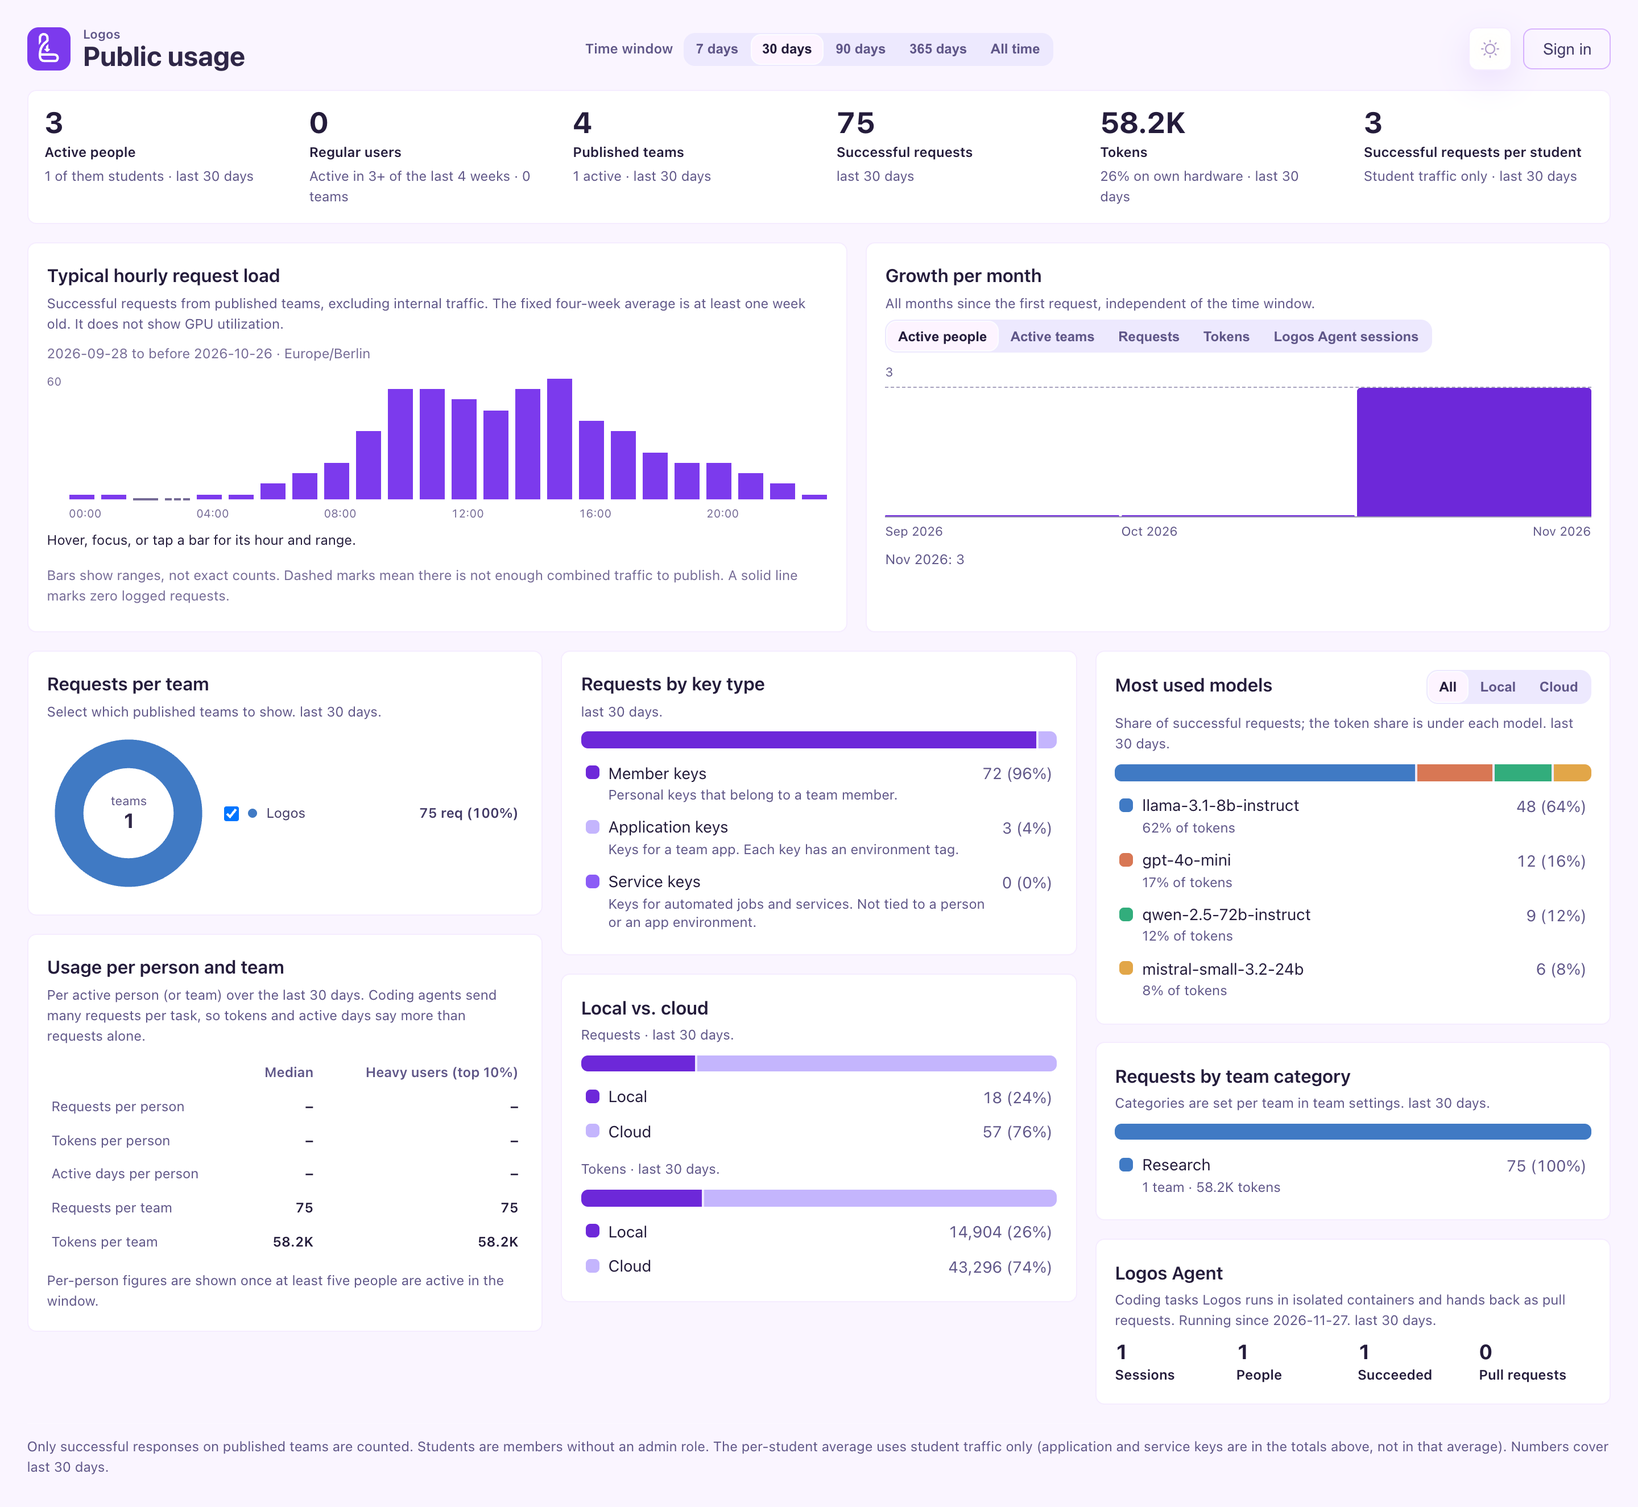
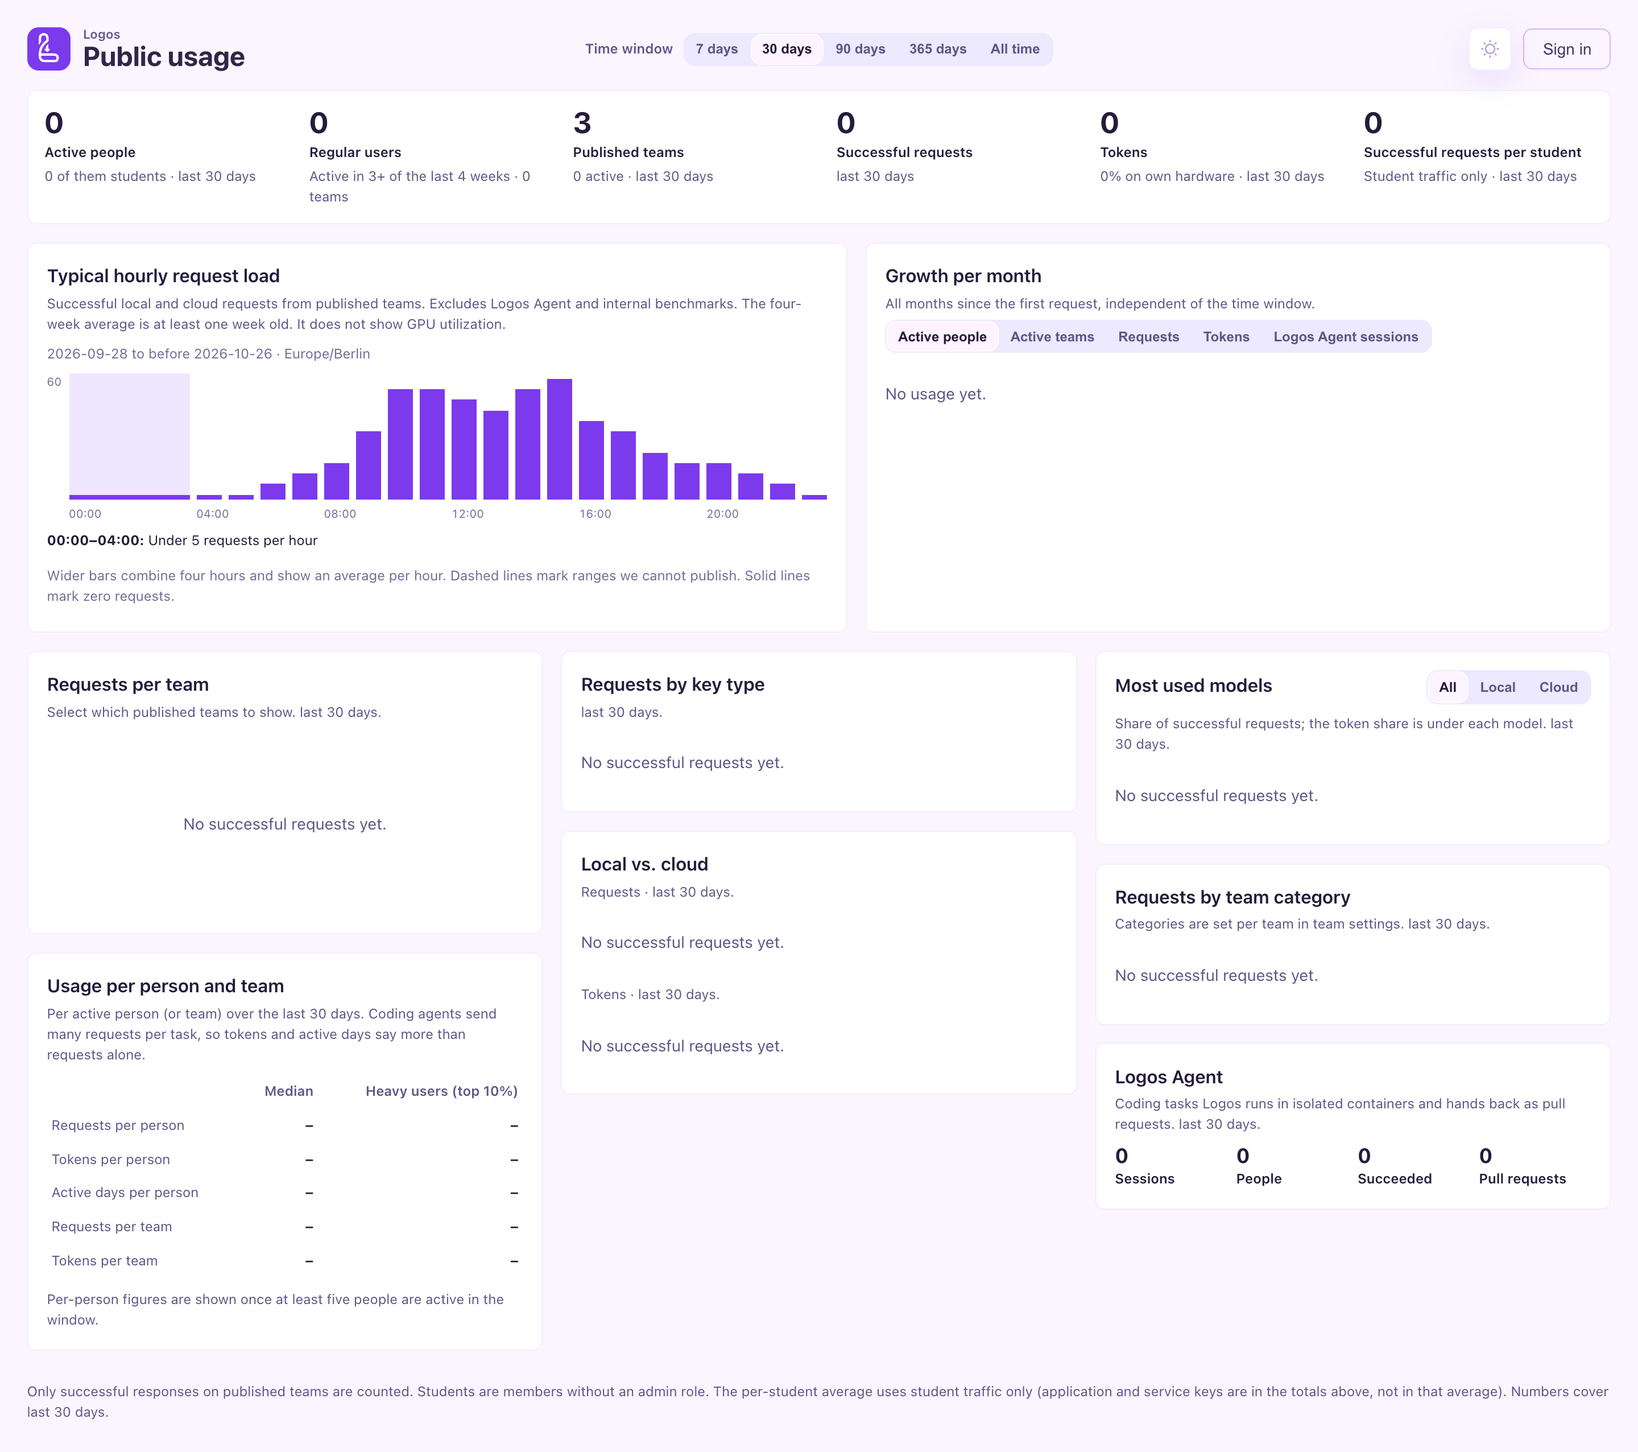
Publish safe grouped ranges for sparse public hourly load

diff --git a/logos-ui/src/app/features/public-stats/public-stats.hourly.html b/logos-ui/src/app/features/public-stats/public-stats.hourly.html
@@ -6,12 +6,12 @@
     <span class="hourly-public-axis" aria-hidden="true">{{ maximum() }}</span>
     <div class="hourly-public-slots">
       @for (slot of slots(); track slot.hour) {
-        <div class="hourly-public-column">
+        <div class="hourly-public-column" [style.grid-column]="(slot.hour + 1) + ' / span ' + (slot.span ?? 1)">
           <button type="button" class="hourly-public-hour"
             [class.suppressed]="slot.band_start === null && !slot.zero"
             [class.quiet]="slot.zero"
             [attr.aria-pressed]="selected() === slot.hour"
-            [attr.aria-label]="hourLabel(slot.hour) + ' to ' + hourLabel(slot.hour + 1) + ': ' + slotLabel(slot)"
+            [attr.aria-label]="hourLabel(slot.hour) + ' to ' + hourLabel(slot.hour + (slot.span ?? 1)) + ': ' + slotLabel(slot)"
             [title]="slotLabel(slot)"
             (click)="selected.set(slot.hour)"
             (focus)="preview.set(slot.hour)"
@@ -28,13 +28,13 @@
   <div class="hourly-public-detail">
     <output aria-live="polite">
       @if (activeSlot(); as slot) {
-        <strong>{{ hourLabel(slot.hour) }}–{{ hourLabel(slot.hour + 1) }}:</strong> {{ slotLabel(slot) }}
+        <strong>{{ hourLabel(slot.hour) }}–{{ hourLabel(slot.hour + (slot.span ?? 1)) }}:</strong> {{ slotLabel(slot) }}
       } @else {
-        Hover, focus, or tap a bar for its hour and range.
+        Hover, focus, or tap a bar for its time and range.
       }
     </output>
   </div>
-  <p class="hourly-public-note">Bars show ranges, not exact counts. Dashed marks mean there is not enough combined traffic to publish. A solid line marks zero logged requests.</p>
+  <p class="hourly-public-note">Wider bars combine four hours and show an average per hour. Dashed lines mark ranges we cannot publish. Solid lines mark zero requests.</p>
 } @else {
   <p class="hourly-public-note">No hourly figures are available for the latest publication period.</p>
 }

diff --git a/logos-ui/src/app/features/public-stats/public-stats.hourly.spec.ts b/logos-ui/src/app/features/public-stats/public-stats.hourly.spec.ts
@@ -23,6 +23,22 @@ describe('Public hourly load', () => {
     expect(root.querySelector('output')?.textContent).toContain('20 to <25 requests per hour');
   });
 
+  it('labels a grouped band with its full time range and spans those columns', () => {
+    const fixture = TestBed.createComponent(PublicStatsHourly);
+    fixture.componentRef.setInput('load', {
+      time_zone: 'Europe/Berlin', from: '2026-10-26', until: '2026-11-23', band_size: 5,
+      hours: [{ hour: 20, span: 4, band_start: 0, zero: false }],
+    });
+    fixture.detectChanges();
+    const root: HTMLElement = fixture.nativeElement;
+    expect(root.querySelector<HTMLElement>('.hourly-public-column')?.style.gridColumn).toBe('21 / span 4');
+    const button = root.querySelector('button')!;
+    expect(button.getAttribute('aria-label')).toBe('20:00 to 00:00: Under 5 requests per hour');
+    button.click();
+    fixture.detectChanges();
+    expect(root.querySelector('output')?.textContent).toContain('20:00–00:00');
+  });
+
   it('does not invent a chart without a publishable cohort', () => {
     const fixture = TestBed.createComponent(PublicStatsHourly);
     fixture.detectChanges();

diff --git a/logos-ui/src/app/features/public-stats/public-stats.html b/logos-ui/src/app/features/public-stats/public-stats.html
@@ -78,8 +78,8 @@
         <section class="chart-panel" aria-labelledby="hourly-public-title">
           <h2 class="chart-title" id="hourly-public-title">Typical hourly request load</h2>
           <p class="chart-hint">
-            Successful requests from published teams, excluding internal traffic. The fixed four-week average is at
-            least one week old. It does not show GPU utilization.
+            Successful local and cloud requests from published teams. Excludes Logos Agent and internal benchmarks.
+            The four-week average is at least one week old. It does not show GPU utilization.
           </p>
           <app-public-stats-hourly [load]="stats()!.hourly_request_load ?? null" />
         </section>

diff --git a/logos-ui/src/app/features/public-stats/public-stats.hourly.ts b/logos-ui/src/app/features/public-stats/public-stats.hourly.ts
@@ -27,7 +27,7 @@ export class PublicStatsHourly {
 
   protected slotLabel(slot: PublicHourlySlot): string {
     if (slot.zero) return '0 logged requests';
-    if (slot.band_start === null) return 'Not enough combined traffic to publish';
+    if (slot.band_start === null) return 'Range not published';
     const upper = slot.band_start + (this.load()?.band_size ?? 0);
     return slot.band_start === 0 ? 'Under ' + upper + ' requests per hour'
       : slot.band_start + ' to <' + upper + ' requests per hour';

diff --git a/logos-ui/src/app/features/public-stats/public-stats.service.ts b/logos-ui/src/app/features/public-stats/public-stats.service.ts
@@ -28,6 +28,8 @@ export const DEFAULT_PUBLIC_STATS_DAYS: PublicStatsDays = '30';
  */
 export interface PublicHourlySlot {
   hour: number;
+  /** Number of consecutive hours covered; omitted by older responses. */
+  span?: number;
   /** Lower bound of a coarse band, or null when no band is published. */
   band_start: number | null;
   zero: boolean;

diff --git a/logos-webservice/src/main/java/de/tum/cit/aet/logos/logoswebservice/operations/service/PublicHourlyRequestLoad.java b/logos-webservice/src/main/java/de/tum/cit/aet/logos/logoswebservice/operations/service/PublicHourlyRequestLoad.java
@@ -22,8 +22,12 @@ public record PublicHourlyRequestLoad(
     private static final int MIN_TEAMS = 3;
     private static final int MIN_REQUESTS = 30;
     private static final int BAND_WIDTH = 5;
+    private static final int GROUP_HOURS = 4;
 
-    public record Hour(int hour, Long bandStart, boolean zero) {}
+    public record Hour(int hour, Long bandStart, boolean zero, int span) {
+        Hour(int hour, Long bandStart, boolean zero) { this(hour, bandStart, zero, 1); }
+        boolean withheld() { return bandStart == null && !zero; }
+    }
 
     record PublicationBlock(LocalDate start, LocalDate end) {
         Instant startTime() { return start.atStartOfDay(ZONE).toInstant(); }
@@ -43,8 +47,12 @@ public record PublicHourlyRequestLoad(
         if (cohort == null || cohort.getTeams() < MIN_TEAMS || cohort.getRequests() < MIN_REQUESTS) return null;
 
         var perHour = new PublicHourlyRequestsProjection[24];
+        var perGroup = new PublicHourlyRequestsProjection[24 / GROUP_HOURS];
         for (var row : rows) {
-            if (row.getHour() >= 0 && row.getHour() < 24) perHour[row.getHour()] = row;
+            int hour = row.getHour();
+            if (hour < 0 || hour >= 24) continue;
+            if (row.getSpan() == 1) perHour[hour] = row;
+            if (row.getSpan() == GROUP_HOURS && hour % GROUP_HOURS == 0) perGroup[hour / GROUP_HOURS] = row;
         }
         var occurrences = new long[24];
         // Count absolute hours first so a Berlin clock change contributes only
@@ -54,20 +62,26 @@ public record PublicHourlyRequestLoad(
         }
 
         var hours = new ArrayList<Hour>(24);
-        for (int hour = 0; hour < 24; hour++) {
-            var row = perHour[hour];
-            if (row == null) {
-                // No matching traffic across a published cohort, not an
-                // inference about missing or other deployments' requests.
-                hours.add(new Hour(hour, null, true));
-            } else if (row.getTeams() < MIN_TEAMS || row.getRequests() < MIN_REQUESTS
-                    || row.getLargestTeamRequests() / (double) row.getRequests() > 0.8) {
-                hours.add(new Hour(hour, null, false));
-            } else {
-                long bandStart = row.getRequests() / (occurrences[hour] * BAND_WIDTH) * BAND_WIDTH;
-                hours.add(new Hour(hour, bandStart, false));
+        for (int start = 0; start < 24; start += GROUP_HOURS) {
+            var singles = new ArrayList<Hour>(GROUP_HOURS);
+            long groupOccurrences = 0;
+            for (int hour = start; hour < start + GROUP_HOURS; hour++) {
+                groupOccurrences += occurrences[hour];
+                var row = perHour[hour];
+                singles.add(new Hour(hour, bandStart(row, occurrences[hour]), row == null));
             }
+            Long groupBand = singles.stream().anyMatch(Hour::withheld)
+                ? bandStart(perGroup[start / GROUP_HOURS], groupOccurrences) : null;
+            // Publish the combined band instead of its constituent bands, not alongside them.
+            if (groupBand != null) hours.add(new Hour(start, groupBand, false, GROUP_HOURS));
+            else hours.addAll(singles);
         }
         return new PublicHourlyRequestLoad(ZONE.getId(), block.start(), block.end(), BAND_WIDTH, List.copyOf(hours));
+    }
+
+    private static Long bandStart(PublicHourlyRequestsProjection row, long occurrences) {
+        if (row == null || row.getTeams() < MIN_TEAMS || row.getRequests() < MIN_REQUESTS
+                || row.getLargestTeamRequests() / (double) row.getRequests() > 0.8) return null;
+        return row.getRequests() / (occurrences * BAND_WIDTH) * BAND_WIDTH;
     }
 }

diff --git a/logos-webservice/src/test/java/de/tum/cit/aet/logos/logoswebservice/operations/PublicStatsControllerTest.java b/logos-webservice/src/test/java/de/tum/cit/aet/logos/logoswebservice/operations/PublicStatsControllerTest.java
@@ -73,29 +73,37 @@ class PublicStatsControllerTest {
                            (2201, 7, 1000, 'error', false), (CAST(NULL AS integer), 7, 1000, 'success', false),
                            (2201, 7, 1000, 'success', true), (2201, 8, 15, 'success', false),
                            (2202, 8, 15, 'success', false), (2203, 8, 15, 'success', false),
-                           (2201, 9, 1000, 'success', false)
+                           (2201, 9, 1000, 'success', false), (2201, 12, 10, 'success', false),
+                           (2202, 13, 10, 'success', false), (2203, 14, 10, 'success', false),
+                           (2201, 20, 1000, 'success', false)
                 )
-                INSERT INTO log_entry (request_id, team_id, api_key_id, timestamp_request, result_status, environment)
+                INSERT INTO log_entry (request_id, team_id, api_key_id, timestamp_request, result_status, environment, benchmark_job_id)
                 SELECT 'public-hourly-test-' || nextval('log_entry_id_seq'), s.team_id,
                     CASE WHEN s.internal THEN (SELECT id FROM api_keys WHERE internal_service = 'agent') END,
                     (monday.block_end - 7 + make_time(s.hour, 0, 0)) AT TIME ZONE 'Europe/Berlin',
                     s.result_status::result_status_enum,
-                    CASE WHEN team_id IS NULL THEN 'model-provider-benchmark' END
+                    CASE WHEN team_id IS NULL THEN 'model-provider-benchmark' END,
+                    CASE WHEN s.hour = 20 THEN 123 END
                 FROM samples s CROSS JOIN monday CROSS JOIN LATERAL generate_series(1, s.requests)
                 """);
             for (String window : java.util.List.of("7", "all")) {
                 mvc.perform(get("/public/stats").param("days", window))
                     .andExpect(status().isOk())
-                    .andExpect(jsonPath("$.successful_requests").value("all".equals(window) ? 1645 : 0))
+                    .andExpect(jsonPath("$.successful_requests").value("all".equals(window) ? 2675 : 0))
                     .andExpect(jsonPath("$.hourly_request_load.time_zone").value("Europe/Berlin"))
                     .andExpect(jsonPath("$.hourly_request_load.band_size").value(5))
-                    .andExpect(jsonPath("$.hourly_request_load.hours.length()").value(24))
+                    .andExpect(jsonPath("$.hourly_request_load.hours.length()").value(21))
                     .andExpect(jsonPath("$.hourly_request_load.hours[7].band_start").value(20))
                     .andExpect(jsonPath("$.hourly_request_load.hours[8].band_start").value(0))
                     .andExpect(jsonPath("$.hourly_request_load.hours[8].zero").value(false))
                     .andExpect(jsonPath("$.hourly_request_load.hours[9].band_start").isEmpty())
                     .andExpect(jsonPath("$.hourly_request_load.hours[9].zero").value(false))
                     .andExpect(jsonPath("$.hourly_request_load.hours[10].zero").value(true))
+                    .andExpect(jsonPath("$.hourly_request_load.hours[12].span").value(4))
+                    .andExpect(jsonPath("$.hourly_request_load.hours[12].band_start").value(0))
+                    .andExpect(jsonPath("$.hourly_request_load.hours[?(@.hour == 13)]").isEmpty())
+                    .andExpect(jsonPath("$.hourly_request_load.hours[17].hour").value(20))
+                    .andExpect(jsonPath("$.hourly_request_load.hours[17].zero").value(true))
                     .andExpect(jsonPath("$.hourly_request_load.hours[7].requests").doesNotExist())
                     .andExpect(jsonPath("$.hourly_request_load.hours[7].teams").doesNotExist());
             }

diff --git a/logos-webservice/src/test/java/de/tum/cit/aet/logos/logoswebservice/operations/service/PublicHourlyRequestLoadTest.java b/logos-webservice/src/test/java/de/tum/cit/aet/logos/logoswebservice/operations/service/PublicHourlyRequestLoadTest.java
@@ -36,9 +36,40 @@ class PublicHourlyRequestLoadTest {
         assertThat(PublicHourlyRequestLoad.summarize(block, List.of(row(-1, 1000, 2, 0)))).isNull();
     }
 
+    @Test
+    void poolsSparseHoursWithoutPublishingOverlappingBandsOrChangingThresholds() {
+        var block = new PublicHourlyRequestLoad.PublicationBlock(LocalDate.of(2026, 10, 5), LocalDate.of(2026, 11, 2));
+        var chart = PublicHourlyRequestLoad.summarize(block, List.of(
+            row(-1, 1000, 3, 0), row(0, 100, 2, 50), row(3, 465, 3, 200), group(0, 565, 3, 250),
+            row(4, 600, 1, 600), row(5, 25, 2, 14), group(4, 625, 3, 600)));
+        // The first group has 113 hour occurrences at the autumn clock change.
+        assertThat(chart.hours().getFirst()).isEqualTo(new PublicHourlyRequestLoad.Hour(0, 5L, false, 4));
+        assertThat(chart.hours()).hasSize(21).noneMatch(hour -> hour.hour() > 0 && hour.hour() < 4);
+        for (int h : List.of(4, 5)) assertThat(chart.hours()).contains(new PublicHourlyRequestLoad.Hour(h, null, false));
+        assertThat(chart.hours()).contains(new PublicHourlyRequestLoad.Hour(6, null, true));
+    }
+
+    @Test
+    void doesNotPoolAnAlreadyPublishableGroupOrBypassTheOverallCohort() {
+        var block = PublicHourlyRequestLoad.block(Instant.parse("2026-11-29T23:00:00Z"));
+        var rows = List.of(row(-1, 150, 3, 0), row(10, 150, 3, 50), group(8, 150, 3, 50));
+        assertThat(PublicHourlyRequestLoad.summarize(block, rows).hours()).hasSize(24)
+            .contains(new PublicHourlyRequestLoad.Hour(10, 5L, false));
+        assertThat(PublicHourlyRequestLoad.summarize(block, List.of(row(-1, 150, 2, 0), group(8, 150, 2, 75)))).isNull();
+    }
+
+    private static PublicHourlyRequestsProjection group(int hour, long requests, long teams, long largest) {
+        return row(hour, 4, requests, teams, largest);
+    }
+
     private static PublicHourlyRequestsProjection row(int hour, long requests, long teams, long largest) {
+        return row(hour, 1, requests, teams, largest);
+    }
+
+    private static PublicHourlyRequestsProjection row(int hour, int span, long requests, long teams, long largest) {
         return new PublicHourlyRequestsProjection() {
             @Override public int getHour() { return hour; }
+            @Override public int getSpan() { return span; }
             @Override public long getRequests() { return requests; }
             @Override public long getTeams() { return teams; }
             @Override public long getLargestTeamRequests() { return largest; }

diff --git a/logos-webservice/src/main/java/de/tum/cit/aet/logos/logoswebservice/operations/repository/LogEntryRepository.java b/logos-webservice/src/main/java/de/tum/cit/aet/logos/logoswebservice/operations/repository/LogEntryRepository.java
@@ -181,17 +181,27 @@ public interface LogEntryRepository extends JpaRepository<LogEntry, Integer> {
             JOIN teams t ON t.id = le.team_id AND t.show_on_public_stats = TRUE
             WHERE le.result_status = 'success'
               AND le.timestamp_request >= :start AND le.timestamp_request < :end
+              AND NOT logos_stats_is_internal_benchmark(le)
               AND NOT EXISTS (
                   SELECT 1 FROM api_keys k WHERE k.id = le.api_key_id AND k.internal_service = 'agent'
               )
             GROUP BY 1, 2
+        ), team_blocks AS (
+            SELECT hour_of_day / 4 * 4 AS start_hour, team_id, SUM(requests)::bigint AS requests
+            FROM team_hours
+            GROUP BY 1, 2
         )
-        SELECT hour_of_day AS hour, SUM(requests)::bigint AS requests,
+        SELECT hour_of_day AS hour, 1 AS span, SUM(requests)::bigint AS requests,
                COUNT(*) AS teams, MAX(requests) AS largestTeamRequests
         FROM team_hours
         GROUP BY hour_of_day
         UNION ALL
-        SELECT -1 AS hour, COALESCE(SUM(requests), 0)::bigint AS requests,
+        SELECT start_hour AS hour, 4 AS span, SUM(requests)::bigint AS requests,
+               COUNT(*) AS teams, MAX(requests) AS largestTeamRequests
+        FROM team_blocks
+        GROUP BY start_hour
+        UNION ALL
+        SELECT -1 AS hour, 0 AS span, COALESCE(SUM(requests), 0)::bigint AS requests,
                COUNT(DISTINCT team_id) AS teams, 0::bigint AS largestTeamRequests
         FROM team_hours
         """, nativeQuery = true)

diff --git a/logos-webservice/src/main/java/de/tum/cit/aet/logos/logoswebservice/operations/repository/PublicHourlyRequestsProjection.java b/logos-webservice/src/main/java/de/tum/cit/aet/logos/logoswebservice/operations/repository/PublicHourlyRequestsProjection.java
@@ -2,6 +2,7 @@ package de.tum.cit.aet.logos.logoswebservice.operations.repository;
 
 public interface PublicHourlyRequestsProjection {
     int getHour();
+    int getSpan();
     long getRequests();
     long getTeams();
     long getLargestTeamRequests();

diff --git a/docs/roles/app-admin.md b/docs/roles/app-admin.md
@@ -276,10 +276,13 @@ A confirmation appears after saving. The public page refreshes periodically, so
 changes may take up to 30 minutes to appear with the default cache setting.
 
 The public page also shows **Typical hourly request load**. It includes
-successful requests from published teams, but not internal requests. The
-chart uses the same four-week period for all time-window selections. Data
-appears at least one week after the period ends. The chart shows ranges and
-does not show hours with too little combined traffic. It does not show GPU use.
+successful local and cloud requests from published teams. It excludes Logos
+Agent requests and internal benchmarks. The chart uses the same 4-week
+period for all time-window selections. Data appears at least 1 week after
+the period ends. The chart shows ranges, not exact counts. If an hour does
+not meet the publication thresholds, the chart can combine it with its
+4-hour block. Wider bars show the average per hour for that block. The
+chart does not show GPU use.
 
 ![Public stats page with ranges for hourly request load](/img/roles/public-stats-hourly-load.png)
 
